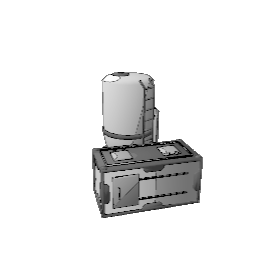
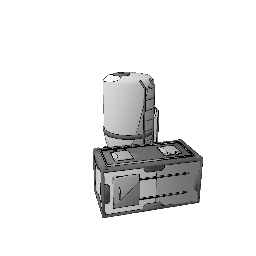
Fix resource stack miniature generation.

diff --git a/scripts/app.js b/scripts/app.js
@@ -1110,9 +1110,9 @@ class DroneWorkerAnimator {
         if (this._currentResourceType !== this.target.carriedResource) {
             this._currentResourceType = this.target.carriedResource;
             if (this._currentResourceType === ResourceType.Rock) {
-                let vertexData = await VertexDataLoader.instance.getColorized("cristal-stack", "#dadada");
+                let vertexData = await VertexDataLoader.instance.getColorized("rock-stack", "#dadada");
                 vertexData.applyToMesh(this._resourceStack);
-                let vertexDataPiece = await VertexDataLoader.instance.getColorized("cristal-piece", "#dadada");
+                let vertexDataPiece = await VertexDataLoader.instance.getColorized("rock-piece", "#dadada");
                 vertexDataPiece.applyToMesh(this._resourcePiece);
             }
             else if (this._currentResourceType === ResourceType.Steel) {
@@ -3524,10 +3524,7 @@ class Miniature extends Main {
         Main.Scene.clearColor.copyFromFloats(0, 1, 0, 1);
         Main.Ground.setVisibility(0);
         Main.Skybox.isVisible = false;
-        //this.runAllScreenShots();
-        await this.createResourceStack("Rock");
-        await this.createResourceStack("Cristal");
-        await this.createResourceStack("Steel");
+        this.runAllScreenShots();
         console.log("Miniature initialized.");
     }
     async runAllScreenShots() {
@@ -3588,18 +3585,21 @@ class Miniature extends Main {
             this.targets.pop().dispose();
         }
         let resourceStack = new AnyProp("resourceStack", new BABYLON.Vector2(0, 0), 0, resourceName + "-stack");
-        //resourceStack.scaling.copyFromFloats(2, 2, 2);
-        await resourceStack.instantiate("#ffffff", "#404040", "#00ffff", "#ff00ff", "#ffff00");
+        resourceStack.scaling.copyFromFloats(2, 2, 2);
+        let baseColor = "#ffffff";
+        if (resourceName === "Cristal") {
+            baseColor = "#9ef442";
+        }
+        else if (resourceName === "Rock") {
+            baseColor = "#dadada";
+        }
+        else if (resourceName === "Steel") {
+            baseColor = "#bababa";
+        }
+        await resourceStack.instantiate(baseColor);
         this.targets.push(resourceStack);
         this.updateCameraPosition();
-        return new Promise((resolve) => {
-            requestAnimationFrame(async () => {
-                requestAnimationFrame(async () => {
-                    await this.makeScreenShot();
-                    resolve();
-                });
-            });
-        });
+        await this.makeScreenShot(resourceName + "Stack", false);
     }
     async createBuildCivilian() {
         while (this.targets.length > 0) {
@@ -3642,7 +3642,7 @@ class Miniature extends Main {
         this.updateCameraPosition();
         await this.makeScreenShot("BuildProp");
     }
-    async makeScreenShot(miniatureName) {
+    async makeScreenShot(miniatureName, desaturate = true) {
         return new Promise(resolve => {
             requestAnimationFrame(() => {
                 BABYLON.ScreenshotTools.CreateScreenshot(Main.Engine, Main.Camera, {
@@ -3670,7 +3670,7 @@ class Miniature extends Main {
                                 data.data[4 * i + 2] = 0;
                                 data.data[4 * i + 3] = 0;
                             }
-                            else {
+                            else if (desaturate) {
                                 let desat = (r + g + b) / 3;
                                 desat = Math.floor(Math.sqrt(desat / 255) * 255);
                                 data.data[4 * i] = desat;

diff --git a/scripts/Main/Miniature.ts b/scripts/Main/Miniature.ts
@@ -39,10 +39,7 @@ class Miniature extends Main {
 		Main.Ground.setVisibility(0);
 		Main.Skybox.isVisible = false;
 
-		//this.runAllScreenShots();
-		await this.createResourceStack("Rock");
-		await this.createResourceStack("Cristal");
-		await this.createResourceStack("Steel");
+		this.runAllScreenShots();
 		
         console.log("Miniature initialized.");
 	}
@@ -121,30 +118,21 @@ class Miniature extends Main {
 			this.targets.pop().dispose();
 		}
 		let resourceStack = new AnyProp("resourceStack", new BABYLON.Vector2(0, 0), 0, resourceName + "-stack");
-		//resourceStack.scaling.copyFromFloats(2, 2, 2);
-		await resourceStack.instantiate(
-			"#ffffff",
-			"#404040",
-			"#00ffff",
-			"#ff00ff",
-			"#ffff00"
-		);
+		resourceStack.scaling.copyFromFloats(2, 2, 2);
+		let baseColor = "#ffffff";
+		if (resourceName === "Cristal") {
+			baseColor = "#9ef442";
+		}
+		else if (resourceName === "Rock") {
+			baseColor = "#dadada";
+		}
+		else if (resourceName === "Steel") {
+			baseColor = "#bababa";
+		}
+		await resourceStack.instantiate(baseColor);
 		this.targets.push(resourceStack);
 		this.updateCameraPosition();
-		return new Promise<void>(
-			(resolve) => {
-				requestAnimationFrame(
-					async () => {
-						requestAnimationFrame(
-							async () => {
-								await this.makeScreenShot();
-								resolve();
-							}
-						)
-					}
-				)
-			}
-		)
+		await this.makeScreenShot(resourceName + "Stack", false);
 	}
 
 	public async createBuildCivilian(): Promise<void> {
@@ -214,7 +202,7 @@ class Miniature extends Main {
 		await this.makeScreenShot("BuildProp");
 	}
 
-	public async makeScreenShot(miniatureName?: string): Promise<void> {
+	public async makeScreenShot(miniatureName?: string, desaturate: boolean = true): Promise<void> {
 		return new Promise<void>(
 			resolve => {
 				requestAnimationFrame(
@@ -249,7 +237,7 @@ class Miniature extends Main {
 											data.data[4 * i + 2] = 0;
 											data.data[4 * i + 3] = 0;
 										}
-										else {
+										else if (desaturate) {
 											let desat = (r + g + b) / 3;
 											desat = Math.floor(Math.sqrt(desat / 255) * 255);
 											data.data[4 * i] = desat;

diff --git a/scripts/Element/Characters/DroneWorker.ts b/scripts/Element/Characters/DroneWorker.ts
@@ -90,9 +90,9 @@ class DroneWorkerAnimator {
         if (this._currentResourceType !== this.target.carriedResource) {
             this._currentResourceType = this.target.carriedResource;
             if (this._currentResourceType === ResourceType.Rock) {
-                let vertexData = await VertexDataLoader.instance.getColorized("cristal-stack", "#dadada");
+                let vertexData = await VertexDataLoader.instance.getColorized("rock-stack", "#dadada");
                 vertexData.applyToMesh(this._resourceStack);
-                let vertexDataPiece = await VertexDataLoader.instance.getColorized("cristal-piece", "#dadada");
+                let vertexDataPiece = await VertexDataLoader.instance.getColorized("rock-piece", "#dadada");
                 vertexDataPiece.applyToMesh(this._resourcePiece);
             }
             else if (this._currentResourceType === ResourceType.Steel) {
